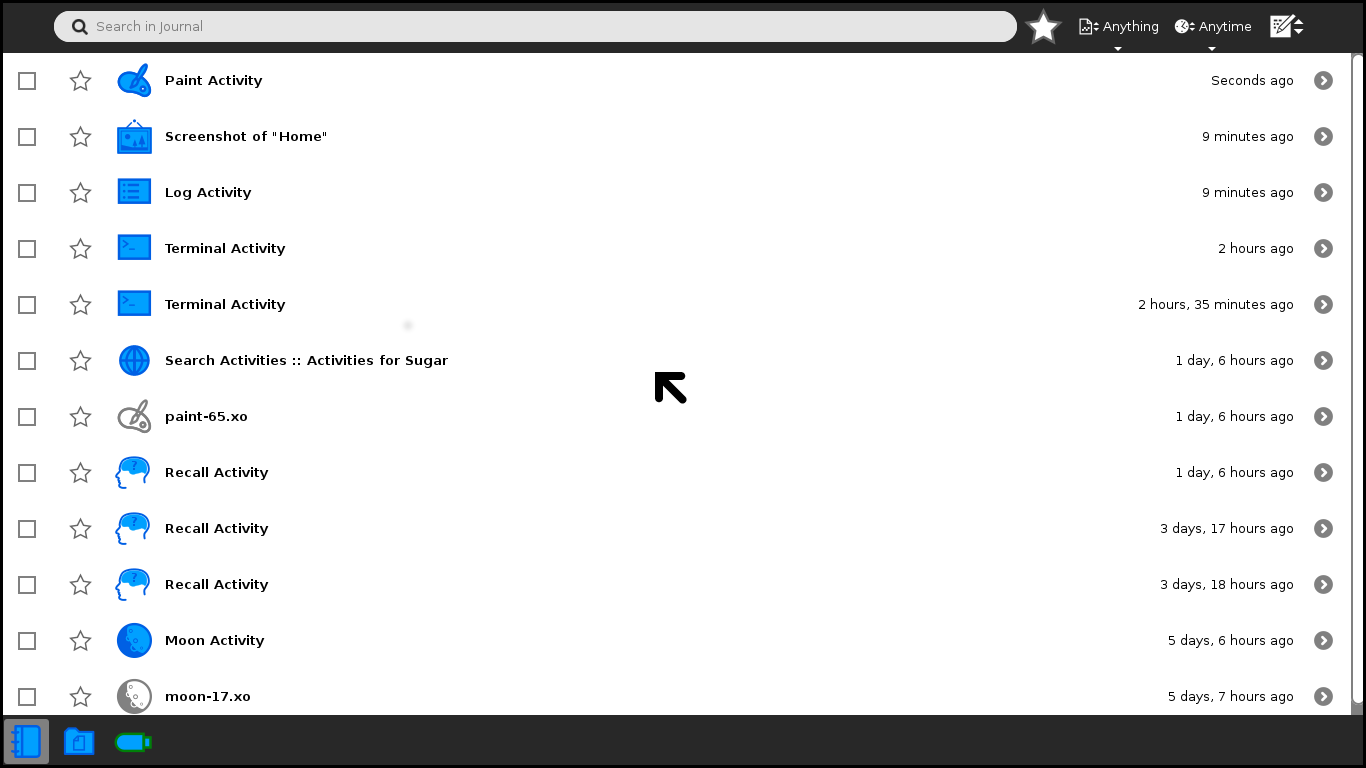
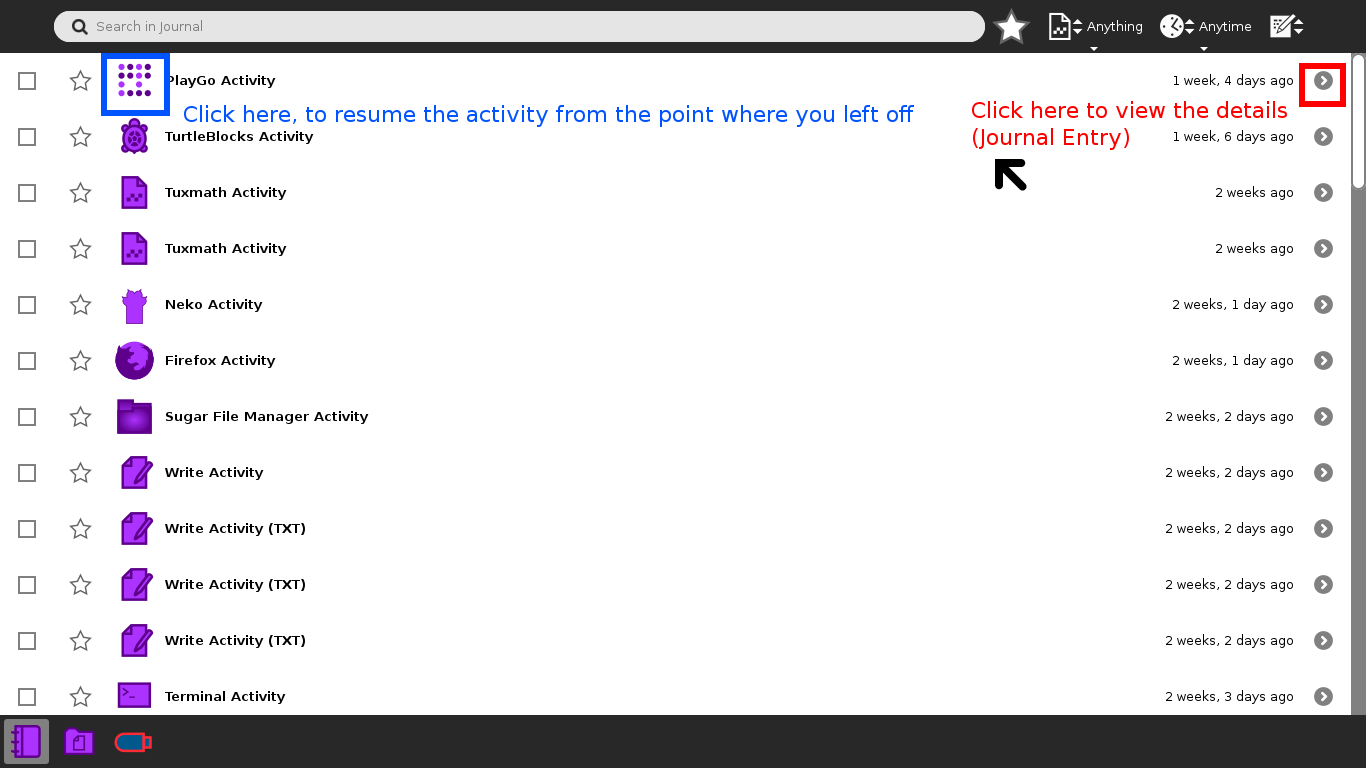
Made changes as per Sam's suggestions :)

diff --git a/gettingstarted.html b/gettingstarted.html
@@ -64,6 +64,22 @@ permalink: /gettingstarted/index.html
     </p>
     <img class="col col-2-3" src="/assets/gettingstartedjournal.png">
   </div>
+  <div class="grid">
+    <img class="col col-2-3" src="/assets/gettingstartedjournalentry.png">
+    <p class="col col-1-3">
+      To see the Journal Entry, or further details of the entry you see in the list, kindly press the play-like button, as marked in red in the previous photo.<br>
+      You will see the entry now. <br>
+      In this window, you can add/edit various fields like the Title, Description, Tags and Comments<br>
+      Note: The colored text written in this image is just for your reference and not a part of what you would see
+    </p>
+  </div>
+  <div class="grid">
+    <p class="col col-1-3">
+      Also you might at times need to select a few items in the Journal's list and maybe remove it, or copy/export them.<br>
+      In order to do that, you can use the checkboxes shown to the right of each item. Checking the items you want to change, you will see a different set of icons in the top panel, which you can now use to do what you desire to the group of selected entries.
+    </p>
+    <img class="col col-2-3" src="/assets/gettingstartedjournalitemsselect.png">
+  </div>
     
 
 <h2>Connect to a Wi-Fi</h2>
@@ -96,19 +112,3 @@ permalink: /gettingstarted/index.html
       </p>
       <img class="col col-2-3" src="/assets/gettingstarted-4.png">
     </div>
-
-<h2>Collaboration</h2>
-  <div class="grid">
-    <img class="col col-2-3" src="/assets/gettingstartedcollaboration2.png">
-    <p class="col col-1-3">
-      After connecting to the Wi-Fi, go to the Neighborhood view. Here you will find a huge number of XO icons on the screen. You can add the people you want to collaborate with, as friends from this screen.<br>
-    </p>
-  </div>
-  <div class="grid">
-    <p class="col col-1-3">
-      Now to share with the help of collaboration, go to the Journal and click the activity instance you want to share. In Send To, you will find the people you can collaborate with.
-
-      NOTE: This feature is currently unavailable in sugar-build.
-    </p>
-    <img class="col col-2-3" src="/assets/gettingstartedcollaboration1.png">
-  </div>
